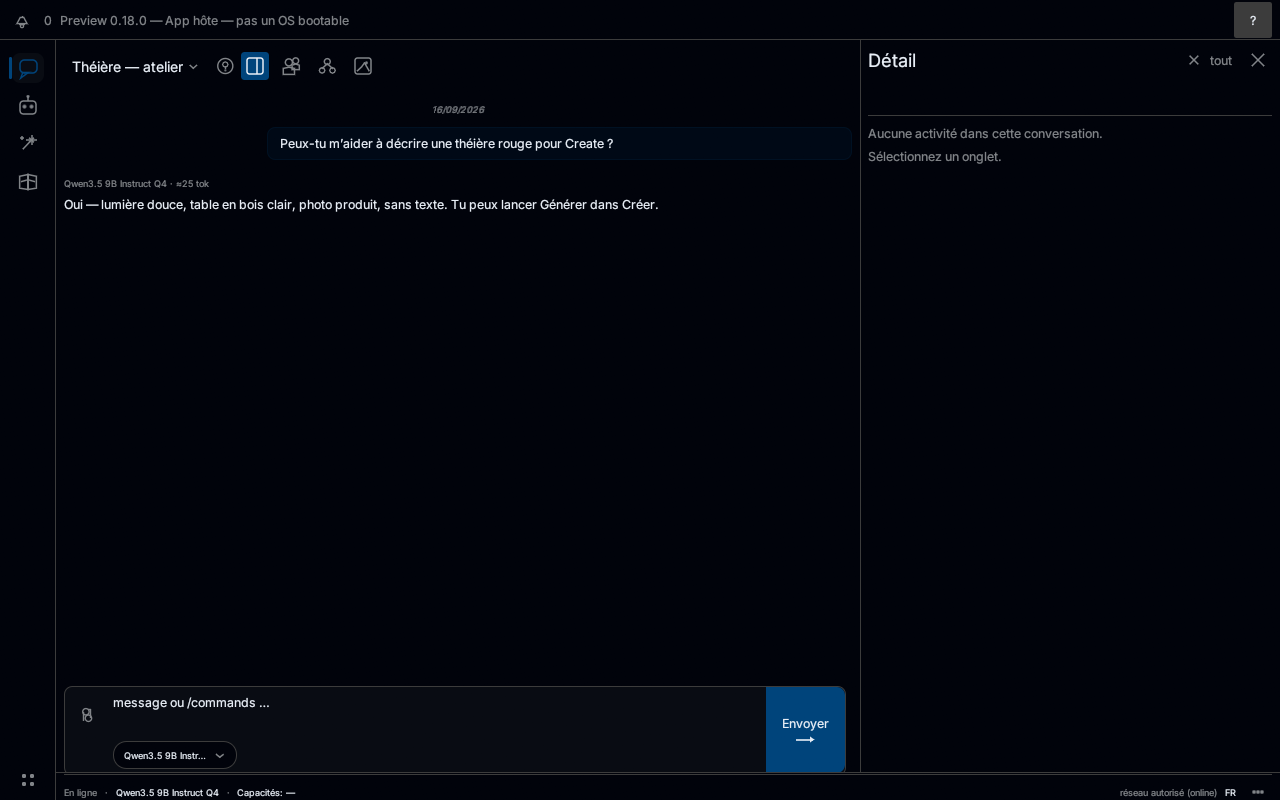
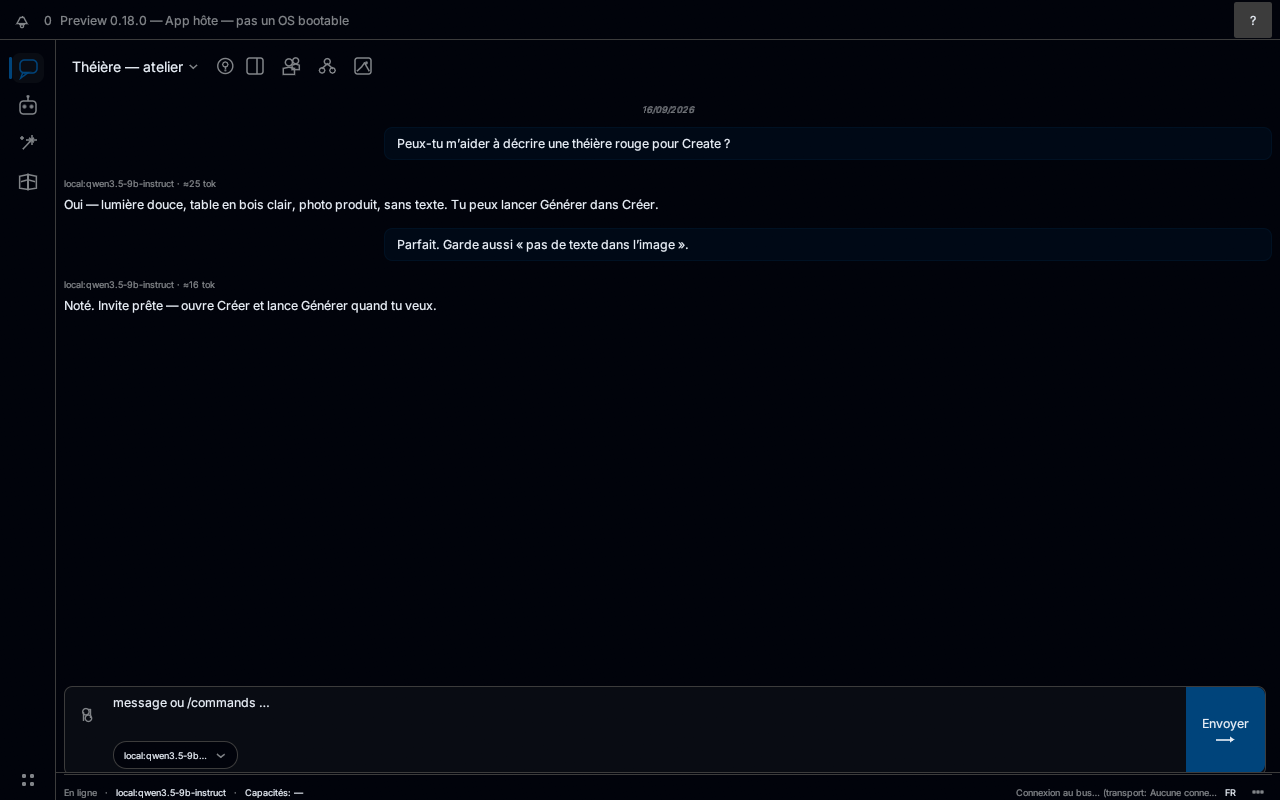
Differentiate marketing screenshots and enlarge Create preview.

diff --git a/crates/aos-ui-egui/src/ui_screenshot.rs b/crates/aos-ui-egui/src/ui_screenshot.rs
@@ -323,7 +323,7 @@ fn screenshot_result_path() -> String {
         .unwrap_or_else(|| "/downloads/images/journey-teapot.png".into())
 }
 
-/// Minimal Create surface for marketing: prompt + result preview + history cue.
+/// Minimal Create surface for marketing: prompt + large result preview.
 const MARKETING_CREATE_DOC: &str = r#"{
   "type": "declarative_ui",
   "contract": 2,
@@ -348,7 +348,7 @@ const MARKETING_CREATE_DOC: &str = r#"{
   },
   "root": {
     "kind": "split",
-    "split_ratio": 0.42,
+    "split_ratio": 0.30,
     "children": [
       {
         "kind": "column",
@@ -400,11 +400,7 @@ const MARKETING_CREATE_DOC: &str = r#"{
   }
 }"#;
 
-/// Seed Chat + Create for website marketing captures (FR copy).
-pub fn seed_screenshot_marketing_chat(app: &mut UiApp) {
-    seed_screenshot_modules(app);
-    app.prefs.language = "fr".into();
-    save_preferences(&app.prefs);
+fn seed_marketing_sessions(app: &mut UiApp) {
     let now = std::time::SystemTime::now()
         .duration_since(std::time::UNIX_EPOCH)
         .map(|d| d.as_millis() as u64)
@@ -417,7 +413,7 @@ pub fn seed_screenshot_marketing_chat(app: &mut UiApp) {
             updated_ms: now,
             archived: false,
             pinned: true,
-            message_count: 2,
+            message_count: 4,
             model_id: Some("local:qwen3.5-9b-instruct".into()),
             mode: Default::default(),
             members: vec![],
@@ -457,6 +453,32 @@ pub fn seed_screenshot_marketing_chat(app: &mut UiApp) {
         },
     ];
     app.chat_state.active_session = Some("shot-a".into());
+}
+
+/// Rail marketing shot: Memory selected so the primary rail selection differs from Chat.
+pub fn seed_screenshot_marketing_rail(app: &mut UiApp) {
+    seed_screenshot_modules(app);
+    seed_marketing_sessions(app);
+    app.prefs.language = "fr".into();
+    app.prefs.ui_layout.activity_panel_open = false;
+    app.prefs.ui_layout.context_panel_open = false;
+    app.prefs.ui_layout.chat_sidebar_width = 200.0;
+    save_preferences(&app.prefs);
+    app.memory_ui.query = "préférence".into();
+    app.memory_ui.note = "Je préfère le français pour l'interface.".into();
+    app.tab = Tab::Memory;
+}
+
+/// Chat marketing shot: conversation transcript with session list visible.
+pub fn seed_screenshot_marketing_chat(app: &mut UiApp) {
+    seed_screenshot_modules(app);
+    seed_marketing_sessions(app);
+    app.prefs.language = "fr".into();
+    app.prefs.ui_layout.activity_panel_open = false;
+    app.prefs.ui_layout.context_panel_open = false;
+    app.prefs.ui_layout.chat_sidebar_width = 220.0;
+    save_preferences(&app.prefs);
+    app.chat_state.sidebar.tools_open = false;
     app.chat = vec![
         ChatLine::plain(
             "user",
@@ -466,11 +488,21 @@ pub fn seed_screenshot_marketing_chat(app: &mut UiApp) {
             "assistant",
             "Oui — lumière douce, table en bois clair, photo produit, sans texte. Tu peux lancer Générer dans Créer.",
         ),
+        ChatLine::plain(
+            "user",
+            "Parfait. Garde aussi « pas de texte dans l’image ».",
+        ),
+        ChatLine::plain(
+            "assistant",
+            "Noté. Invite prête — ouvre Créer et lance Générer quand tu veux.",
+        ),
     ];
     app.tab = Tab::Chat;
 }
 
 pub fn seed_screenshot_marketing_create(app: &mut UiApp) {
+    use crate::rich_decl::ImageViewInteractionState;
+
     seed_screenshot_modules(app);
     let panel = app
         .decl_panels
@@ -487,12 +519,22 @@ pub fn seed_screenshot_marketing_create(app: &mut UiApp) {
                 ),
             );
             panel.seed_local("result_path", json!(screenshot_result_path()));
+            // Fill the preview panel (slight zoom past 1:1 so 512² reads larger).
+            panel.image_views.insert(
+                "preview".into(),
+                ImageViewInteractionState {
+                    zoom: 1.45,
+                    ..Default::default()
+                },
+            );
         }
         Err(err) => {
             eprintln!("seed_screenshot_marketing_create: parse failed: {err}");
         }
     }
     app.prefs.language = "fr".into();
+    app.prefs.ui_layout.activity_panel_open = false;
+    app.prefs.ui_layout.context_panel_open = false;
     save_preferences(&app.prefs);
     app.open_module_tab(MODULE_NAME.into());
 }
@@ -581,24 +623,22 @@ impl UiScreenshotHarness {
         if self.focus_marketing {
             match self.step {
                 0 => {
-                    seed_screenshot_marketing_chat(app);
-                    app.chat_state.sidebar.tools_open = false;
+                    seed_screenshot_marketing_rail(app);
                     self.request(ctx, "m1-rail");
                     self.step = 1;
-                    self.settle_left = 5;
+                    self.settle_left = 6;
                 }
                 1 => {
                     seed_screenshot_marketing_chat(app);
-                    app.chat_state.sidebar.tools_open = true;
                     self.request(ctx, "m2-chat");
                     self.step = 2;
-                    self.settle_left = 5;
+                    self.settle_left = 6;
                 }
                 2 => {
                     seed_screenshot_marketing_create(app);
                     self.request(ctx, "m3-create");
                     self.step = 3;
-                    self.settle_left = 8;
+                    self.settle_left = 10;
                 }
                 _ => {
                     eprintln!("AOS_UI_SCREENSHOT_DIR: marketing captures complete — exiting");

diff --git a/crates/aos-ui-egui/src/decl_ui.rs b/crates/aos-ui-egui/src/decl_ui.rs
@@ -1374,7 +1374,13 @@ impl DeclUiPanelState {
                                 let fit = (max_w / base.x.max(1.0))
                                     .min(max_h / base.y.max(1.0))
                                     .min(1.0);
-                                let size = base * fit * view.zoom.max(0.1);
+                                // Treat unset/zero zoom as 1.0 so previews fill the panel.
+                                let zoom = if view.zoom <= 0.0 {
+                                    1.0
+                                } else {
+                                    view.zoom
+                                };
+                                let size = base * fit * zoom.clamp(0.1, 8.0);
                                 let offset = egui::vec2(view.pan[0], view.pan[1]);
                                 ui.image((tex.id(), size));
                                 let rect = ui.min_rect().translate(offset);
@@ -1387,7 +1393,8 @@ impl DeclUiPanelState {
                                 if response.hovered() {
                                     let scroll = ui.input(|i| i.raw_scroll_delta.y);
                                     if scroll.abs() > 0.0 {
-                                        view.zoom = (view.zoom + scroll * 0.001).clamp(0.2, 8.0);
+                                        let base_zoom = if view.zoom <= 0.0 { 1.0 } else { view.zoom };
+                                        view.zoom = (base_zoom + scroll * 0.001).clamp(0.2, 8.0);
                                     }
                                 }
                             } else {

diff --git a/crates/aos-ui-egui/src/rich_decl.rs b/crates/aos-ui-egui/src/rich_decl.rs
@@ -59,12 +59,24 @@ impl RichDeclSubscriptions {
 }
 
 /// Local pan/zoom state for an `image_view` widget (host-owned, no WASM round trips).
-#[derive(Debug, Clone, Default)]
+#[derive(Debug, Clone)]
 pub struct ImageViewInteractionState {
     pub zoom: f32,
     pub pan: [f32; 2],
     pub interaction_id: String,
     pub active: bool,
+}
+
+impl Default for ImageViewInteractionState {
+    fn default() -> Self {
+        Self {
+            // 1.0 = fit-to-panel; 0 was treated as 0.1 and collapsed previews to a thumbnail.
+            zoom: 1.0,
+            pan: [0.0, 0.0],
+            interaction_id: String::new(),
+            active: false,
+        }
+    }
 }
 
 impl ImageViewInteractionState {
